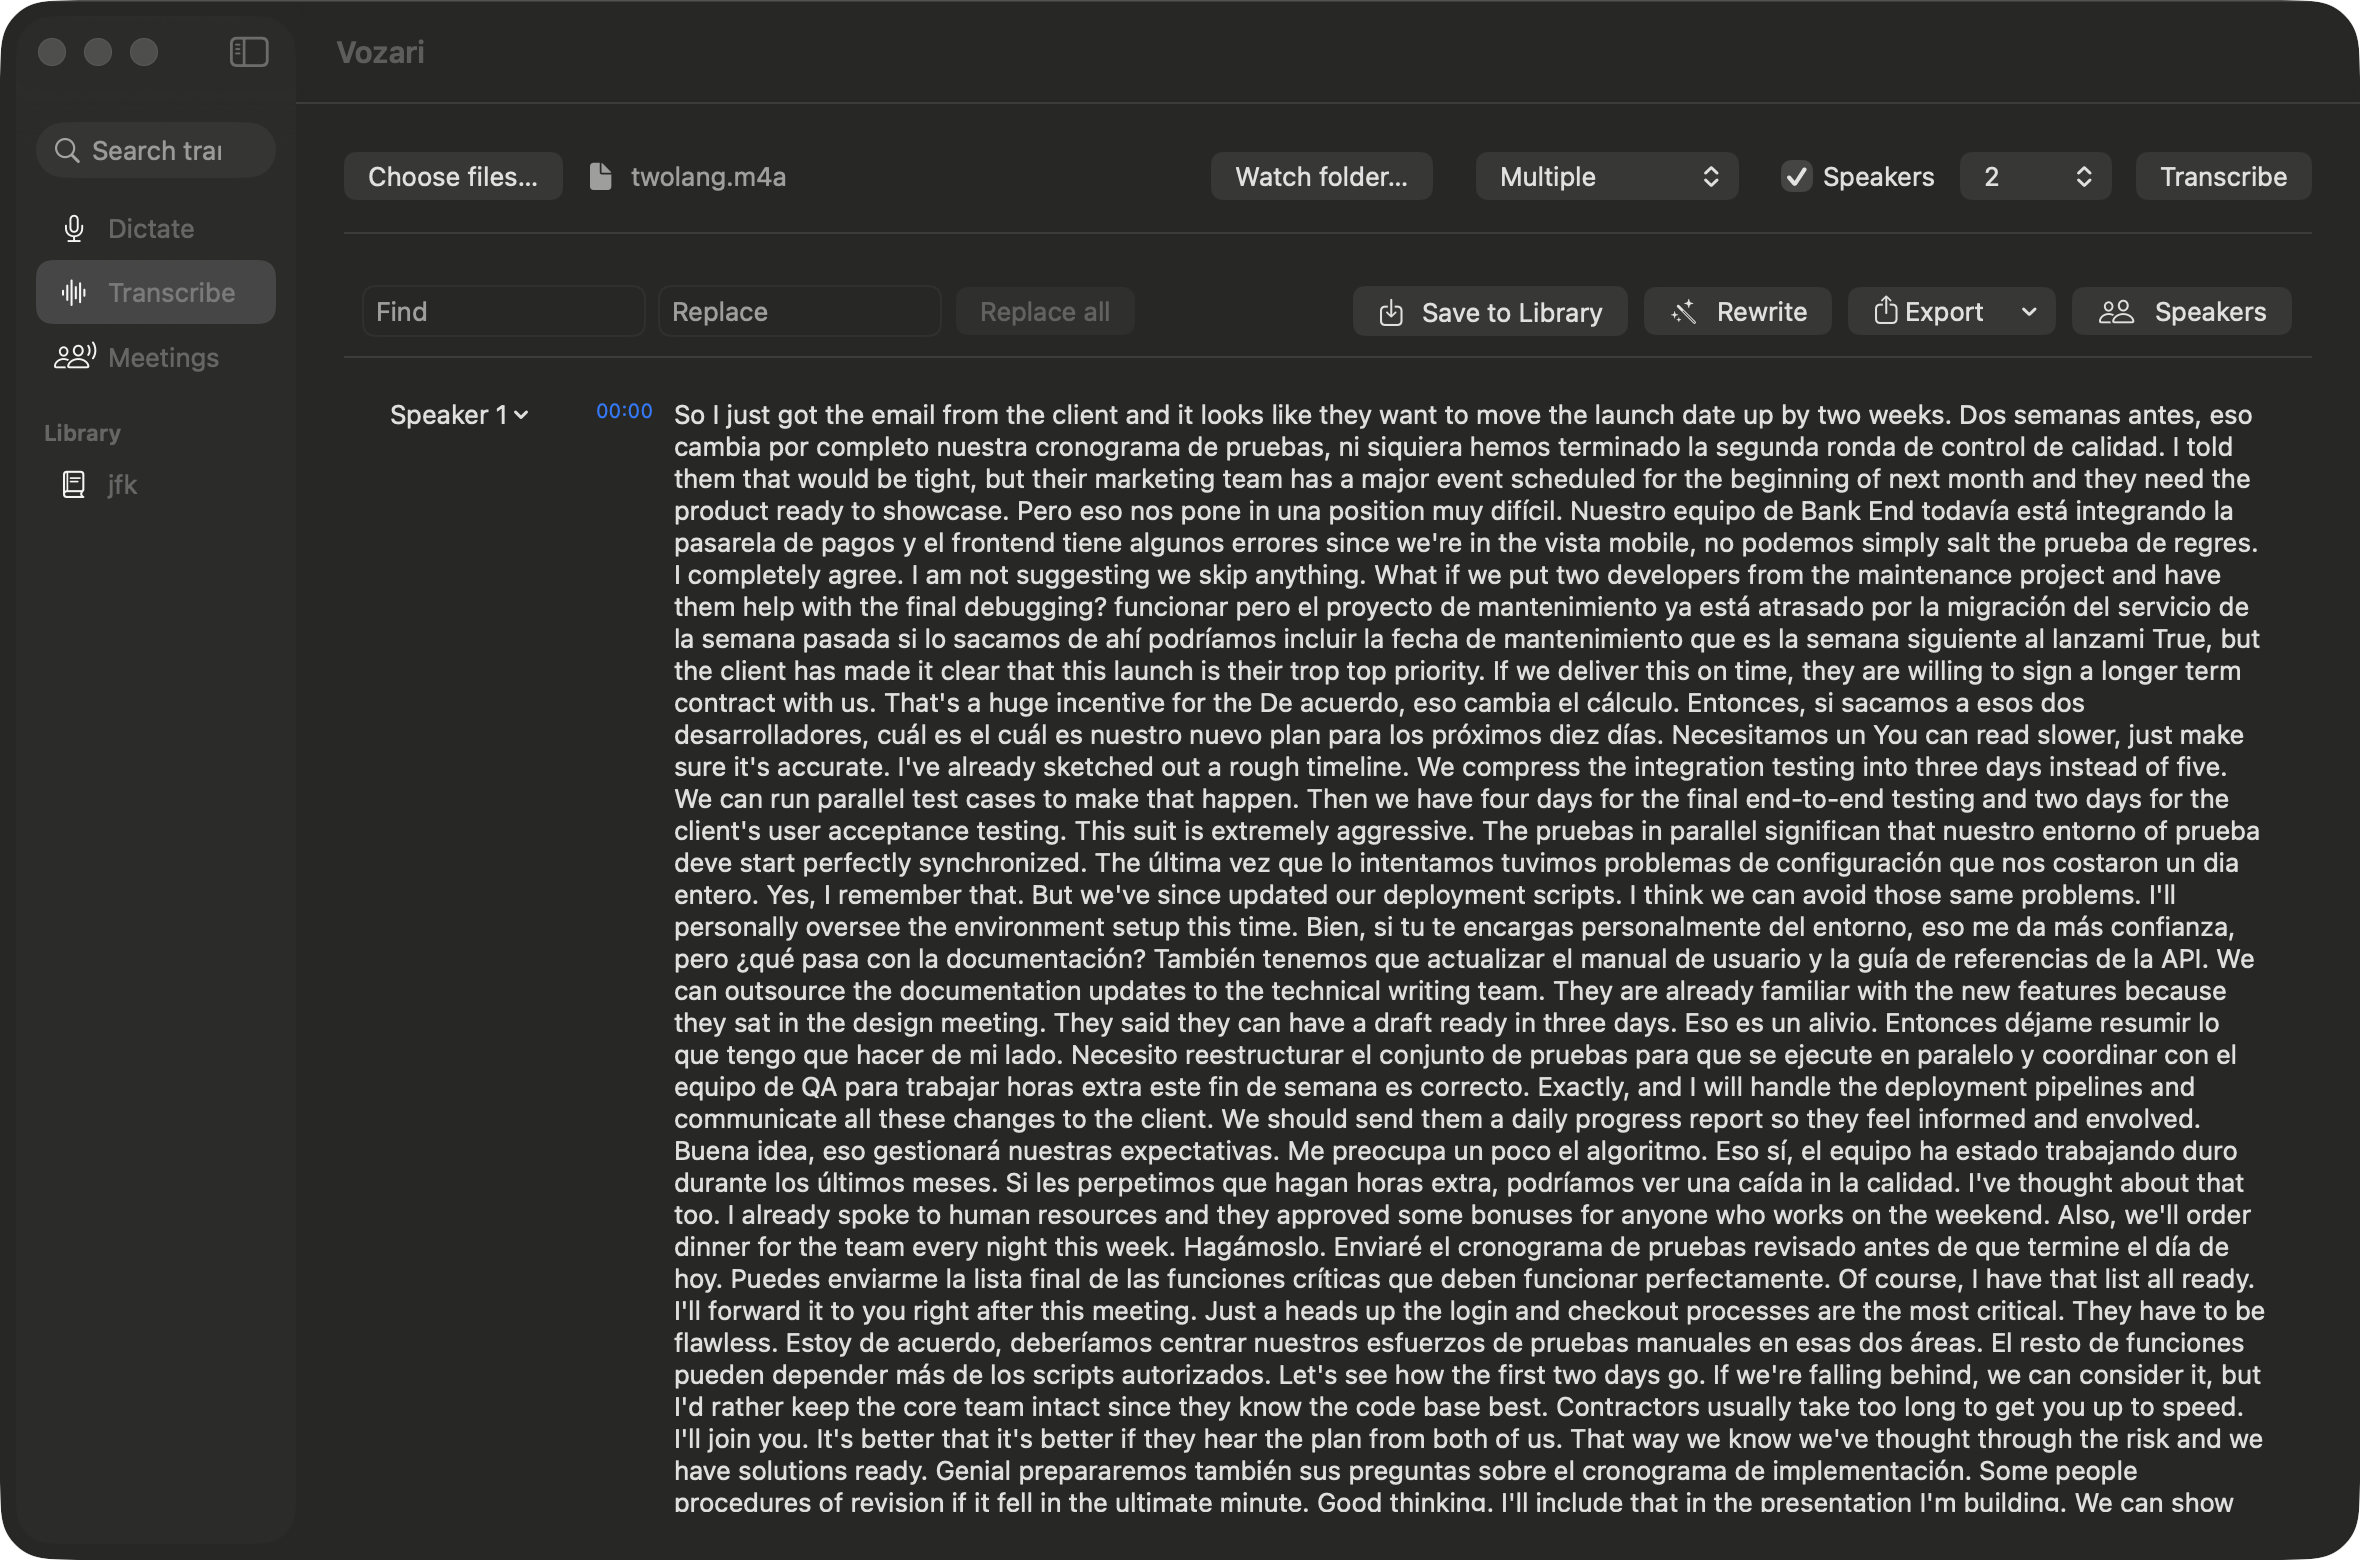
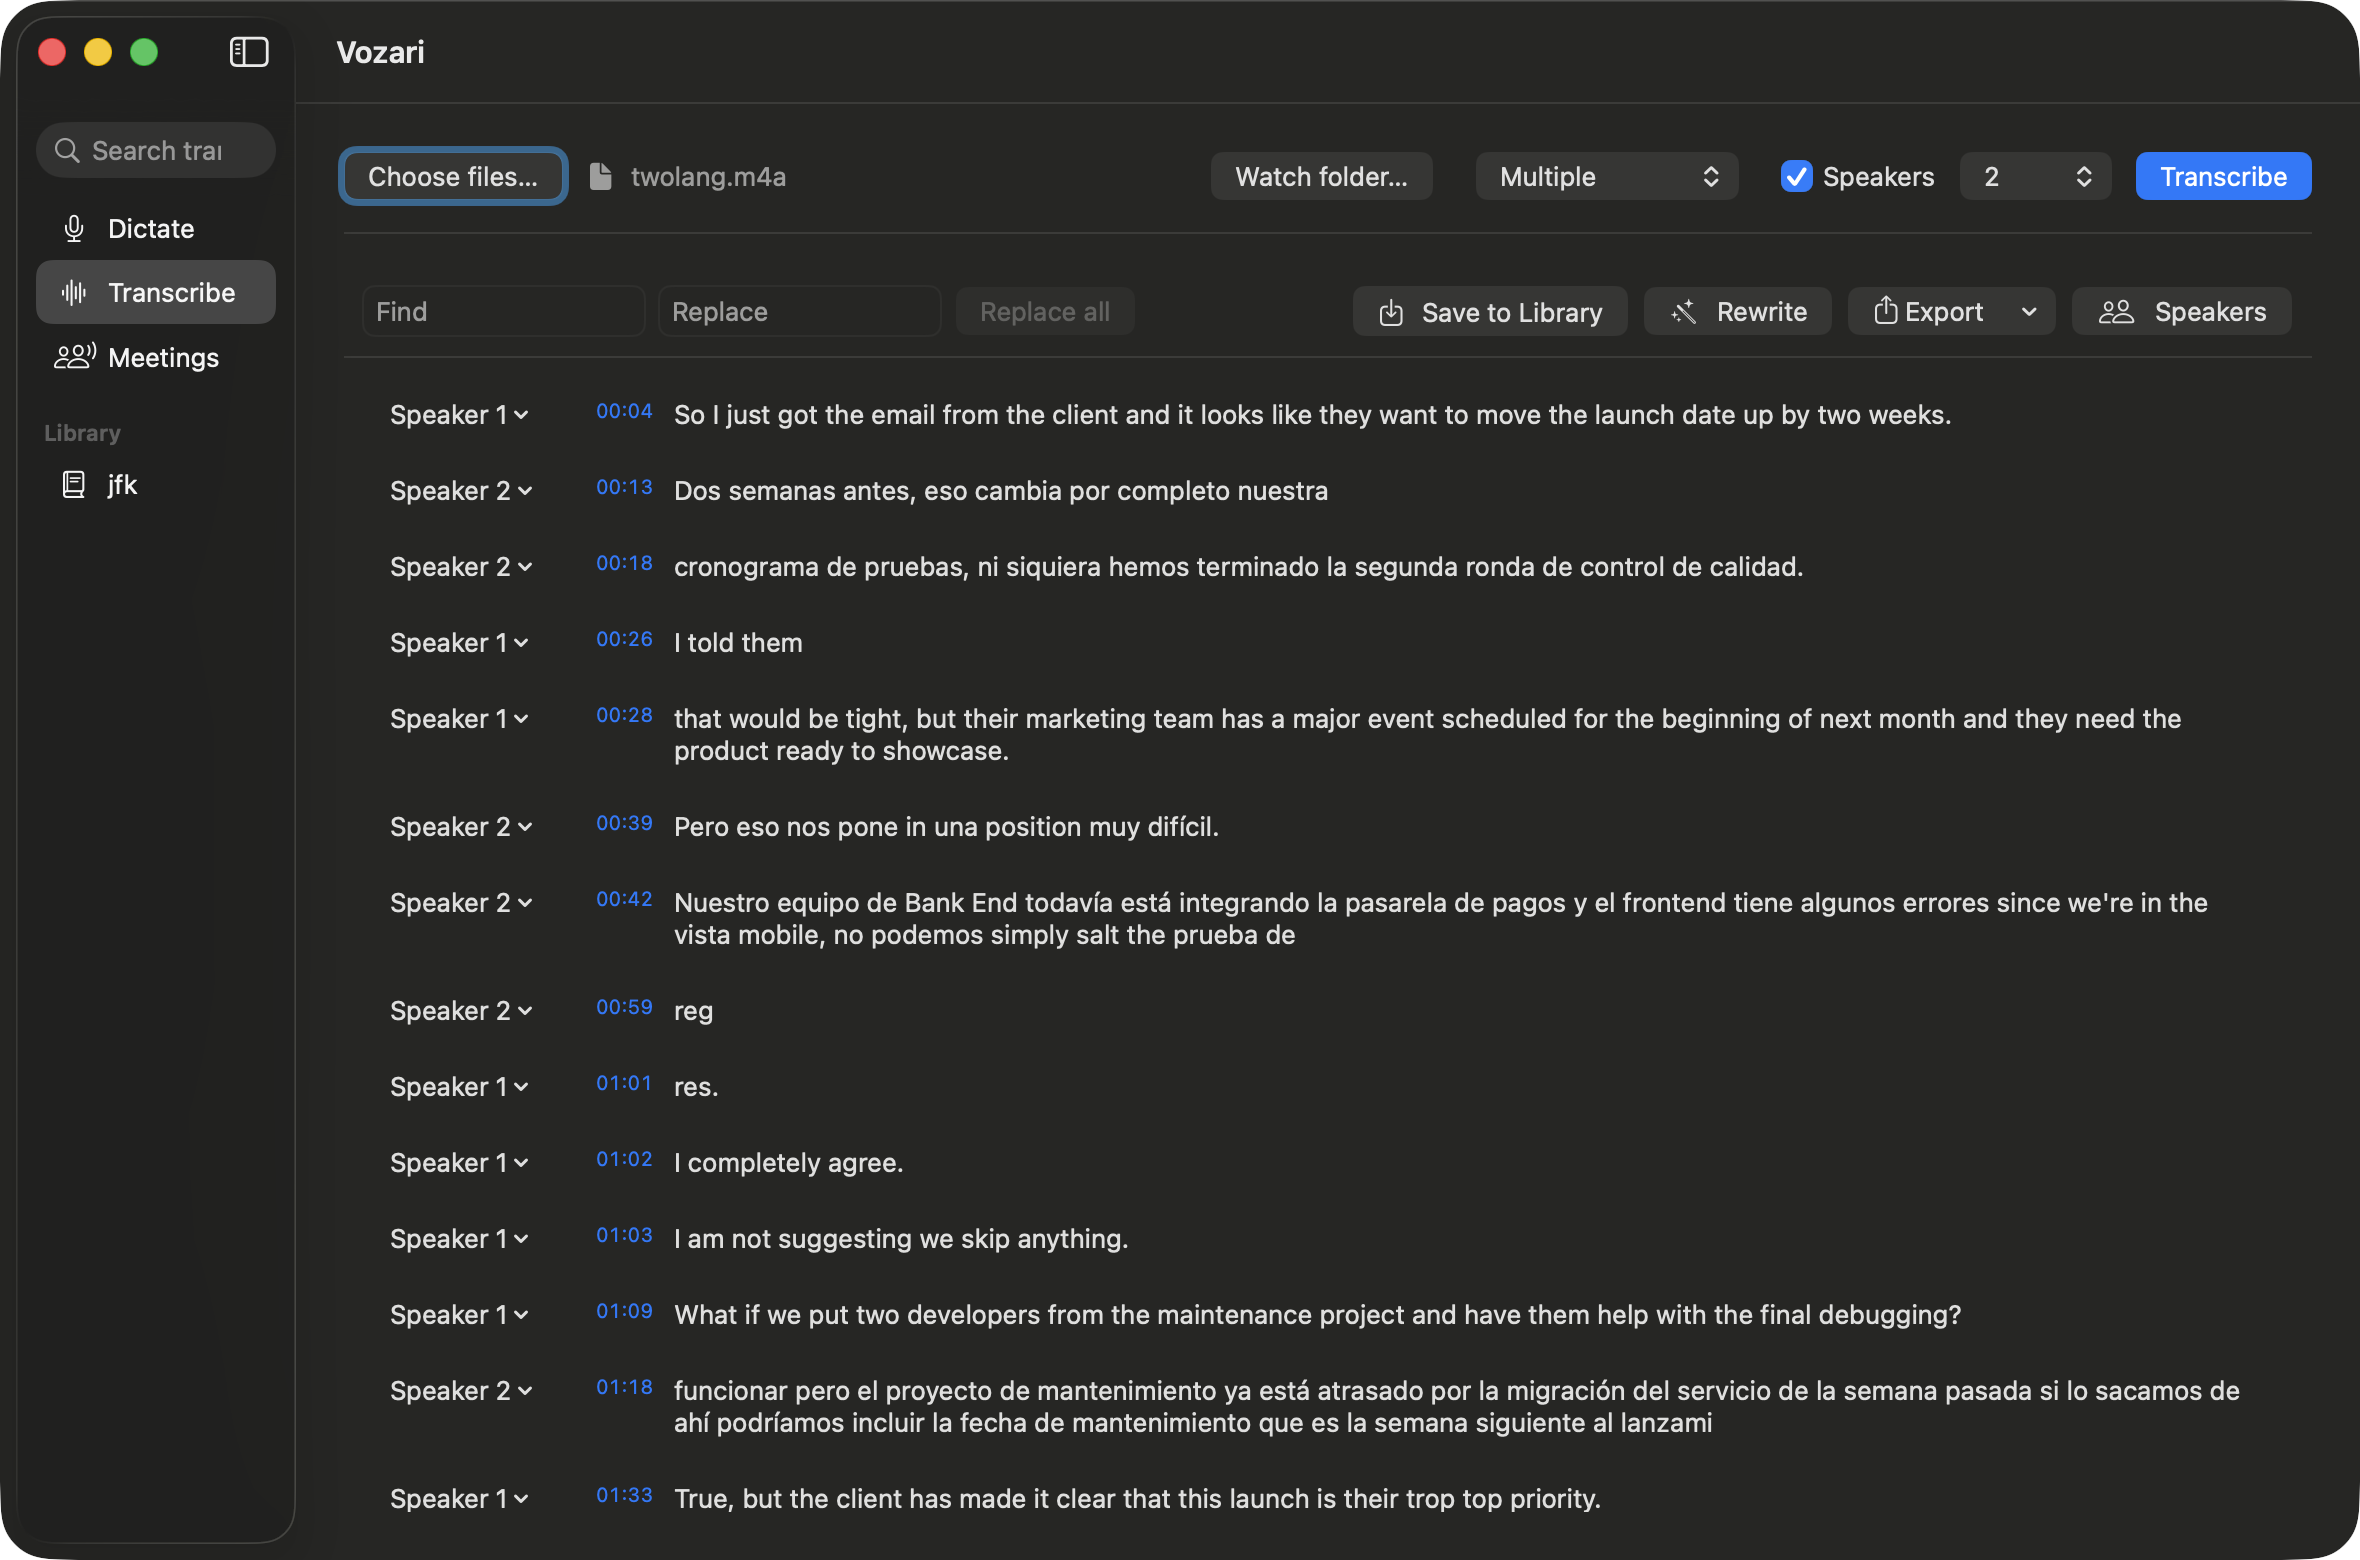
Reshoot bilingual screenshot with real speaker turns

diff --git a/README.md b/README.md
@@ -57,11 +57,12 @@ Everything runs locally. No account, no telemetry, no transcription service in t
 
 Most transcription apps make you pick a language before you start, and then mangle every sentence that isn't in it. Vozari has a **Multiple** language mode that routes the audio to an engine built for code-switching.
 
-Below is a real 7-minute English/Spanish meeting transcribed in one pass — no language picked, no splitting the file, no second run. The speakers switch mid-sentence and the transcript follows them:
+Below is a real 7-minute English/Spanish meeting transcribed in one pass — no language picked, no splitting the file, no second run. Two people, switching language mid-conversation, each turn timestamped and attributed:
 
-![Bilingual transcript](assets/06-multilingual.png)
+![Bilingual transcript with speaker turns](assets/06-multilingual.png)
 
-> *"…they want to move the launch date up by two weeks. **Dos semanas antes, eso cambia por completo nuestra cronograma de pruebas**, ni siquiera hemos terminado la segunda ronda de control de calidad. I told them that would be tight…"*
+> **Speaker 1** — *"So I just got the email from the client and it looks like they want to move the launch date up by two weeks."*
+> **Speaker 2** — *"Dos semanas antes, eso cambia por completo nuestra cronograma de pruebas, ni siquiera hemos terminado la segunda ronda de control de calidad."*
 
 **Why this works:** an Apple SpeechAnalyzer session is locked to a single locale, so on this exact clip it phonetically mangles the other language — measured WER jumps from 0.04 (monolingual) to 0.30 (bilingual). Vozari's **Multiple** mode routes to Parakeet v3 instead, which handles code-switching at 0.11 WER, **2.6× faster than Whisper and at roughly one-ninth the memory**. That routing decision came out of the benchmark below, not out of a spec sheet.
 
@@ -69,7 +70,7 @@ Below is a real 7-minute English/Spanish meeting transcribed in one pass — no 
 
 ## Multiple speakers
 
-Turn on **Speakers** and Vozari separates the recording into speaker turns, with an optional speaker count when you already know how many people were in the room. Every turn carries a speaker label, and renaming a speaker once relabels every turn in that cluster — including in all seven export formats.
+Turn on **Speakers** and Vozari separates the recording into speaker turns, with an optional speaker count when you already know how many people were in the room — that's what produced the alternating Speaker 1 / Speaker 2 timeline above. Every turn carries a speaker label, and renaming a speaker once relabels every turn in that cluster, including in all seven export formats.
 
 ![Speaker management](assets/07-speakers.png)
 